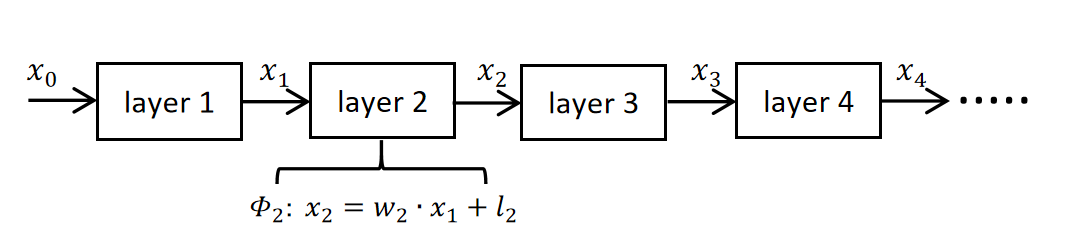
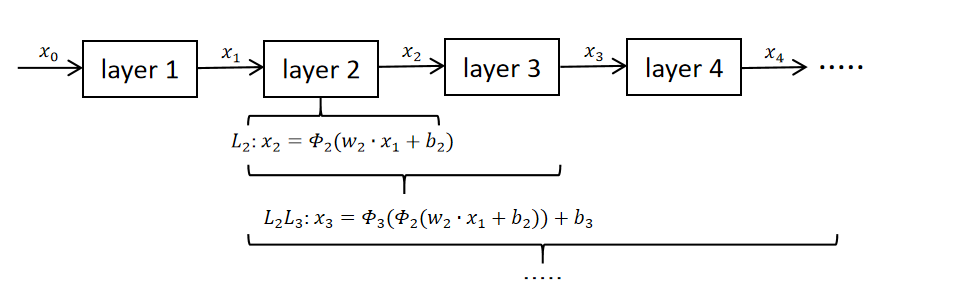
theoretical fund. update

diff --git a/chapters/Theoretical Foundations.tex b/chapters/Theoretical Foundations.tex
@@ -1,6 +1,7 @@
 \chapter{Theoretical Foundations}
 In this chapter, the theoretical Foundations of deep learning model will be introduced. 
 \section{Basis of deep neural network}
+\subsection{Basic concept}
     In \cite{Goodfellow-et-al-2016}, the concept of deep learning is well described. The deep learning is actually a solution that allows 
     computer to learn from the experiences and understand the world. The entire world consists of hierarchical concepts and relations between 
     each concept with the simpler concept in the next level are also included. This concept of structural hierarchy allows computers to learn 
@@ -22,16 +23,19 @@ In this chapter, the theoretical Foundations of deep learning model will be intr
       \caption{The high-level schematic of deep learning}
       \label{The high-level schematic of deep learning}
     \end{figure}
-  \section{Mathematical formulations}
+  \subsection{Mathematical formulations}
+  \subsubsection{Layers}
   The basic principles of how deep learning works were clarified in the previous section. The next questions are: what is the layer? How does it work to extract features?\\
   In order to answer these two questions more intuitively, mathematical expressions should first be defined. The input simple feature should is defined as $x_{0}$. 
   And the next extracted abstract features are defined as $x_{l}$, where l presents the level of the layer, see \autoref{Mathematical explanation of the feature extraction by layers}.
   The layers are actually defined as some first-order linear mathematical expressions $L _{l}$ with the nonlinear activation function $\Phi_{l}$ in \autoref{eq:layer}, 
   where $w$ is the weight and $b$ is the bias. The nonlinear activation function is important. Without it, the output could be just represented from input by one single layer linearly,
-  which is not enough to learn the most of the concepts in the world.
+  which is not enough to learn the most of the concepts in the world. Some activation functions are explained in \cite{0706bf17a845490688ef4d7d19df65ba}, e.g., ReLU in \autoref{eq:ReLU}, 
+  Sigmoid in \autoref{eq:Sigmoid}, Softmax in \autoref{eq:softmax}. The final step of Schematic, Mapping, can actually be regarded as a layer, which has different options depending on 
+  the specific task. For example, for classification, the output layer could be softmax, because it maps the features to probabilities. 
   \begin{figure}
     \centering
-    \includegraphics[width=0.6\linewidth]{example_images/mathLayers}
+    \includegraphics[width=0.9\linewidth]{example_images/mathLayers}
     \caption{Mathematical explanation of the feature extraction by layers}
     \label{Mathematical explanation of the feature extraction by layers}
   \end{figure}
@@ -39,3 +43,44 @@ In this chapter, the theoretical Foundations of deep learning model will be intr
     x_{l}=\Phi _{l}(w_{l} \cdot x_{l-1}+ b_{l-1})
      \label{eq:layer}
   \end{align}
+
+  \begin{align}
+    \Phi(x) = \begin{cases}
+      x& \text{ if } x\ge 0 \\
+      0& \text{ else } 
+    \end{cases}
+     \label{eq:ReLU}
+  \end{align}
+
+
+  \begin{align}
+    \Phi(x) = \frac{1}{1+exp(x)^{-1}}  
+     \label{eq:Sigmoid}
+  \end{align}
+
+  \begin{align}
+    \Phi(x_{i}) = \frac{exp(x_{i})}{\sum_{j}exp(x_{j}) } 
+     \label{eq:softmax}
+  \end{align}
+  \subsubsection{Optimization through backpropagated}
+  So far, the process of how initial simple features are extracted and transformed step by step into deeper features through different layers and finally mapped into outputs, 
+  i.e., predictions, has been well explained. Then a further question follows: how do networks make accurate predictions?\\
+  The transformations and mapping are basically performed by \autoref{eq:layer}. Its result is determined by the activation function $\Phi$, weights $w$ and bias$b$. 
+  A GroundTruth $y^{\star }$ needs to be artificially introduced to guide the network to learn the correct behavior, i.e. to predict the desired output. This is explained as
+  learning from examples and is explained in \cite{russel2010}, which is also well-known as supervised learning. \\
+  The prediction of the model or the output after mapping is defined as $y$. A Loss function could be derived. y is actually the result of Mapping, which is actually the output 
+  of activation function $\Phi(x)$. It can be further backpropagated onto the feutures from last layer. The optimal weight $w^{star}$ and bais $b^{star}$ are obtained by 
+  minimizing the loss equation, see \autoref{eq:Optimization by loss function}. 
+  \begin{align}
+    w_{l-1}^{\star}, b_{l-1}^{\star}=arg\min_{w_{l-1},b_{l-1}}(\Phi_{l}(\Phi_{l-1}(w_{l-1}\cdot x_{l-1}+b_{l-1}))-y^{\star } ) 
+     \label{eq:Optimization by loss function}
+  \end{align}
+  This approach of optimization can be backwards until the weights and bias of all Layers in the network have been optimized and updated. The whole process is illustrated in 
+  \autoref{Parameters are optimized by backpropagation}.
+  \begin{figure}
+    \centering
+    \includegraphics[width=0.9\linewidth]{example_images/bachpropagation}
+    \caption{Parameters are optimized by backpropagation}
+    \label{Parameters are optimized by backpropagation}
+  \end{figure}
+  
